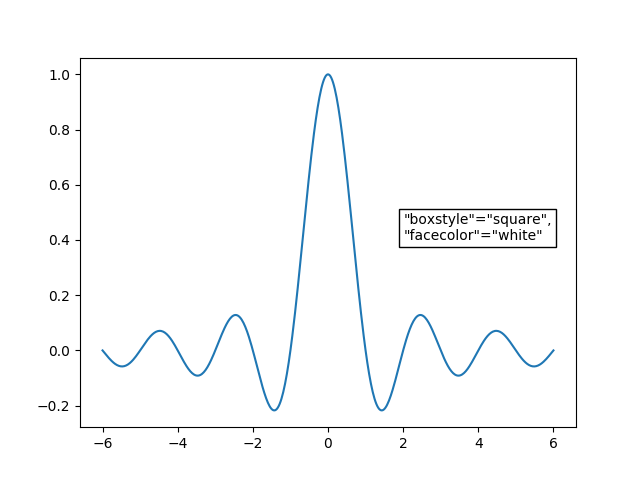
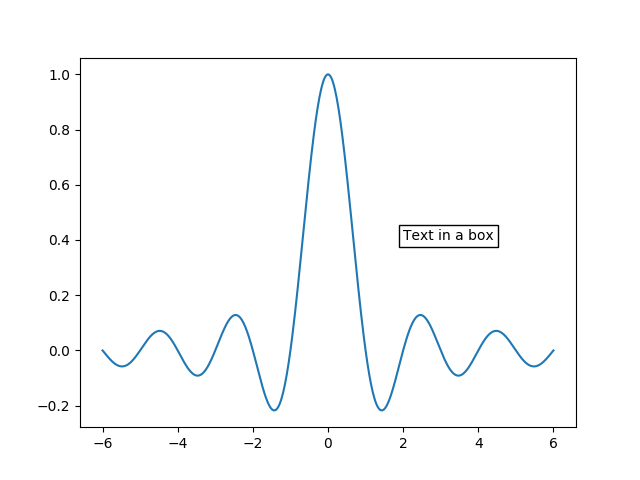
images added

Changed region(s): [[0.625, 0.4062, 0.875, 0.5312]]

diff --git a/text_examples.py b/text_examples.py
@@ -1,0 +1,172 @@
+import matplotlib
+matplotlib.use("agg")
+
+import matplotlib.pyplot as plt
+import numpy as np
+
+
+# Create the curve data.
+x = np.linspace(-6, 6, 500)
+y = np.sinc(x)
+
+# Add axis labels and a title.
+fig = plt.figure()
+ax = fig.gca()
+ax.plot(x, y)
+ax.set_xlabel("The x-axis label")
+ax.set_ylabel("The y-axis label")
+ax.set_title("The Title")
+fig.savefig("images/text_xy_labels_title.png")
+
+# Add some text.
+fig = plt.figure()
+ax = fig.gca()
+ax.plot(x, y)
+ax.text(-5, .8, "Text on a plot", fontsize=16)
+fig.savefig("images/text_any_text.png")
+
+# Align the text.
+fig = plt.figure()
+ax = fig.gca()
+ax.set_xlim([-2, 2])
+ax.set_ylim([-2, 2])
+ax.scatter(-1, -1, marker=".", c="black")
+ax.text(-1, -1, "right-top",
+        horizontalalignment="right",
+        verticalalignment="top")
+ax.scatter(1, -1, marker=".", c="black")
+ax.text(1, -1, "left-top",
+        horizontalalignment="left",
+        verticalalignment="top")
+ax.scatter(-1, 1, marker=".", c="black")
+ax.text(-1, 1, "right-bottom",
+        horizontalalignment="right",
+        verticalalignment="bottom")
+ax.scatter(1, 1, marker=".", c="black")
+ax.text(1, 1, "left-bottom",
+        horizontalalignment="left",
+        verticalalignment="bottom")
+ax.scatter(0, -1, marker=".", c="black")
+ax.text(0, -1, "horizcenter-top",
+        horizontalalignment="center",
+        verticalalignment="top")
+ax.scatter(0, 1, marker=".", c="black")
+ax.text(0, 1, "horizcenter-bottom",
+        horizontalalignment="center",
+        verticalalignment="bottom")
+ax.scatter(1, 0, marker=".", c="black")
+ax.text(1, 0, "left-vertcenter",
+        horizontalalignment="left",
+        verticalalignment="center")
+ax.scatter(-1, 0, marker=".", c="black")
+ax.text(-1, 0, "right-vertcenter",
+        horizontalalignment="right",
+        verticalalignment="center")
+ax.scatter(1, .5, marker=".", c="black")
+ax.text(1, .5, "left-baseline",
+        horizontalalignment="left",
+        verticalalignment="baseline")
+ax.scatter(-1, .5, marker=".", c="black")
+ax.text(-1, .5, "right-baseline",
+        horizontalalignment="right",
+        verticalalignment="baseline")
+ax.scatter(0, .5, marker=".", c="black")
+ax.text(0, .5, "center-baseline",
+        horizontalalignment="center",
+        verticalalignment="baseline")
+ax.scatter(0, 0, marker=".", c="black")
+ax.text(0, 0, "center-center",
+        horizontalalignment="center",
+        verticalalignment="center")
+fig.savefig("images/text_alignment.png")
+
+# Change the text formatting. 
+fig = plt.figure()
+ax = fig.gca()
+ax.set_xlim([-2, 2])
+ax.set_ylim([-2, 2])
+ax.text(-1, 1, 'fontsize=16', fontsize=16,
+        horizontalalignment="center")
+ax.text(-1, 0, 'fontstyle="italic"', fontstyle="italic",
+        horizontalalignment="center")
+ax.text(-1, -1, 'fontweight="bold"', fontweight="bold",
+        horizontalalignment="center")
+ax.text(1, -1, "rotation=15", rotation=15,
+        horizontalalignment="center")
+ax.text(1, 0, 'color="red"', color="red",
+        horizontalalignment="center")
+ax.text(1, 1, 'family="serif"', family="serif",
+        horizontalalignment="center")
+fig.savefig("images/text_styles.png")
+
+# Text box
+fig = plt.figure()
+ax = fig.gca()
+ax.plot(x, y)
+ax.text(2, .4, "Text in a box",
+        bbox=dict(boxstyle = "square",
+                  facecolor = "white"))
+fig.savefig("images/text_bbox.png")
+
+# Annotation
+fig = plt.figure()
+ax = fig.gca()
+ax.plot(x, y)
+ax.annotate(
+    '"arrowstyle" = "-"',
+    (2.4, np.sinc(2.4)),
+    (3, .4),
+    arrowprops=dict(arrowstyle = "-"),
+)
+ax.annotate(
+    '"arrowstyle" = "-|>"',
+    (-2.4, np.sinc(2.4)),
+    (-5, .3),
+    arrowprops=dict(arrowstyle = "-|>"),
+)
+ax.annotate(
+    '"arrowstyle" = "<->"',
+    (.5, np.sinc(.5)),
+    (3, .6),
+    arrowprops=dict(arrowstyle = "<->"),
+)
+ax.annotate(
+    '"arrowstyle" = "simple"',
+    (0, 1),
+    (-6, .7),
+    arrowprops=dict(arrowstyle = "simple"),
+)
+ax.annotate(
+    '"arrowstyle" = "fancy"',
+    (-.7, np.sinc(.7)),
+    (-6, .55),
+    arrowprops=dict(arrowstyle = "fancy"),
+)
+fig.savefig("images/text_annotate.png")
+
+# LaTeX equations. 
+matplotlib.rcParams['text.usetex'] = True
+fig = plt.figure()
+ax = fig.gca()
+ax.set_xlim([-1, 1])
+ax.set_ylim([-1, 1])
+# ax.text(0, 0, r"$y = \Sum{x^2 dx}_{i=0}^{n}$",
+ax.text(
+    0, 0,
+    r"$f(x | \mu, \sigma^2) = \frac{1}{\sqrt{2\pi\sigma^2}}" +
+    r"e^{- \frac{(x - \mu)^2}{2\sigma^2}}$",
+    horizontalalignment="center",
+    fontsize=24)
+fig.savefig("images/text_equation.png")
+
+fig = plt.figure()
+ax = fig.gca()
+ax.set_xlim([-1, 1])
+ax.set_ylim([-1, 1])
+ax.text(
+    0, 0, r"$E=mc^2$",
+    horizontalalignment="center",
+    fontsize=24)
+fig.savefig("images/text_equation_thumbnail.png")
+matplotlib.rcParams['text.usetex'] = False
+
